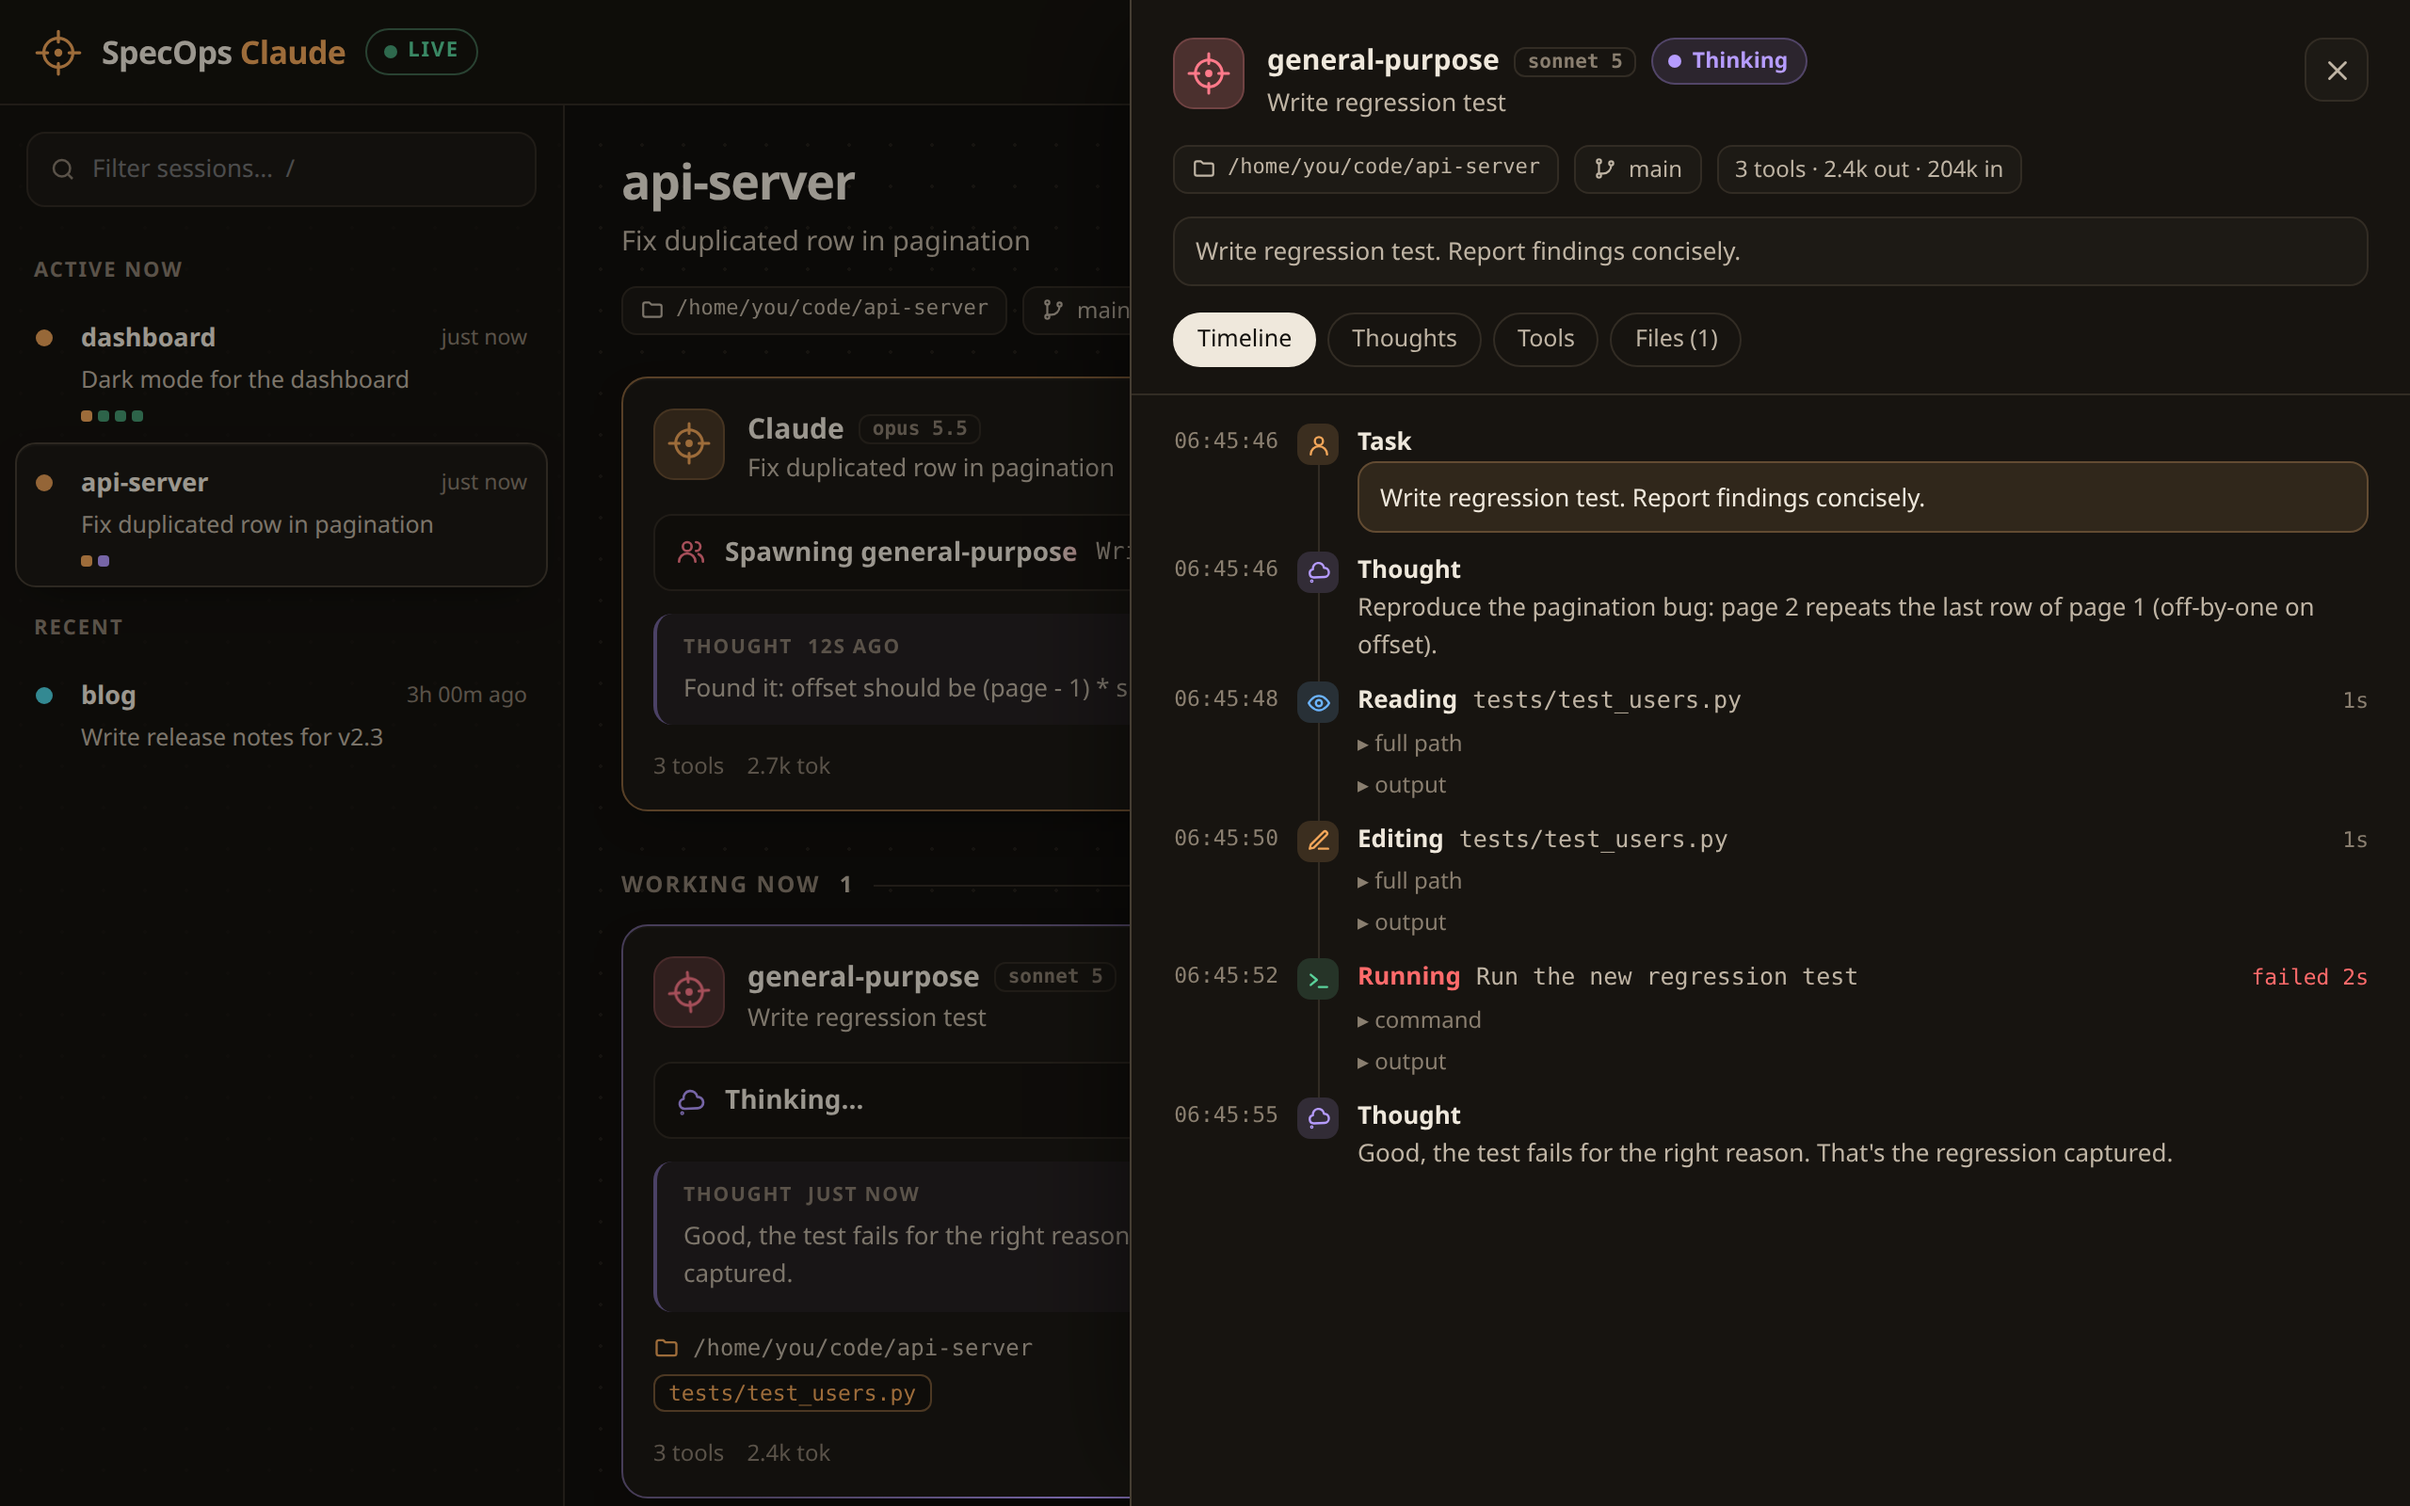
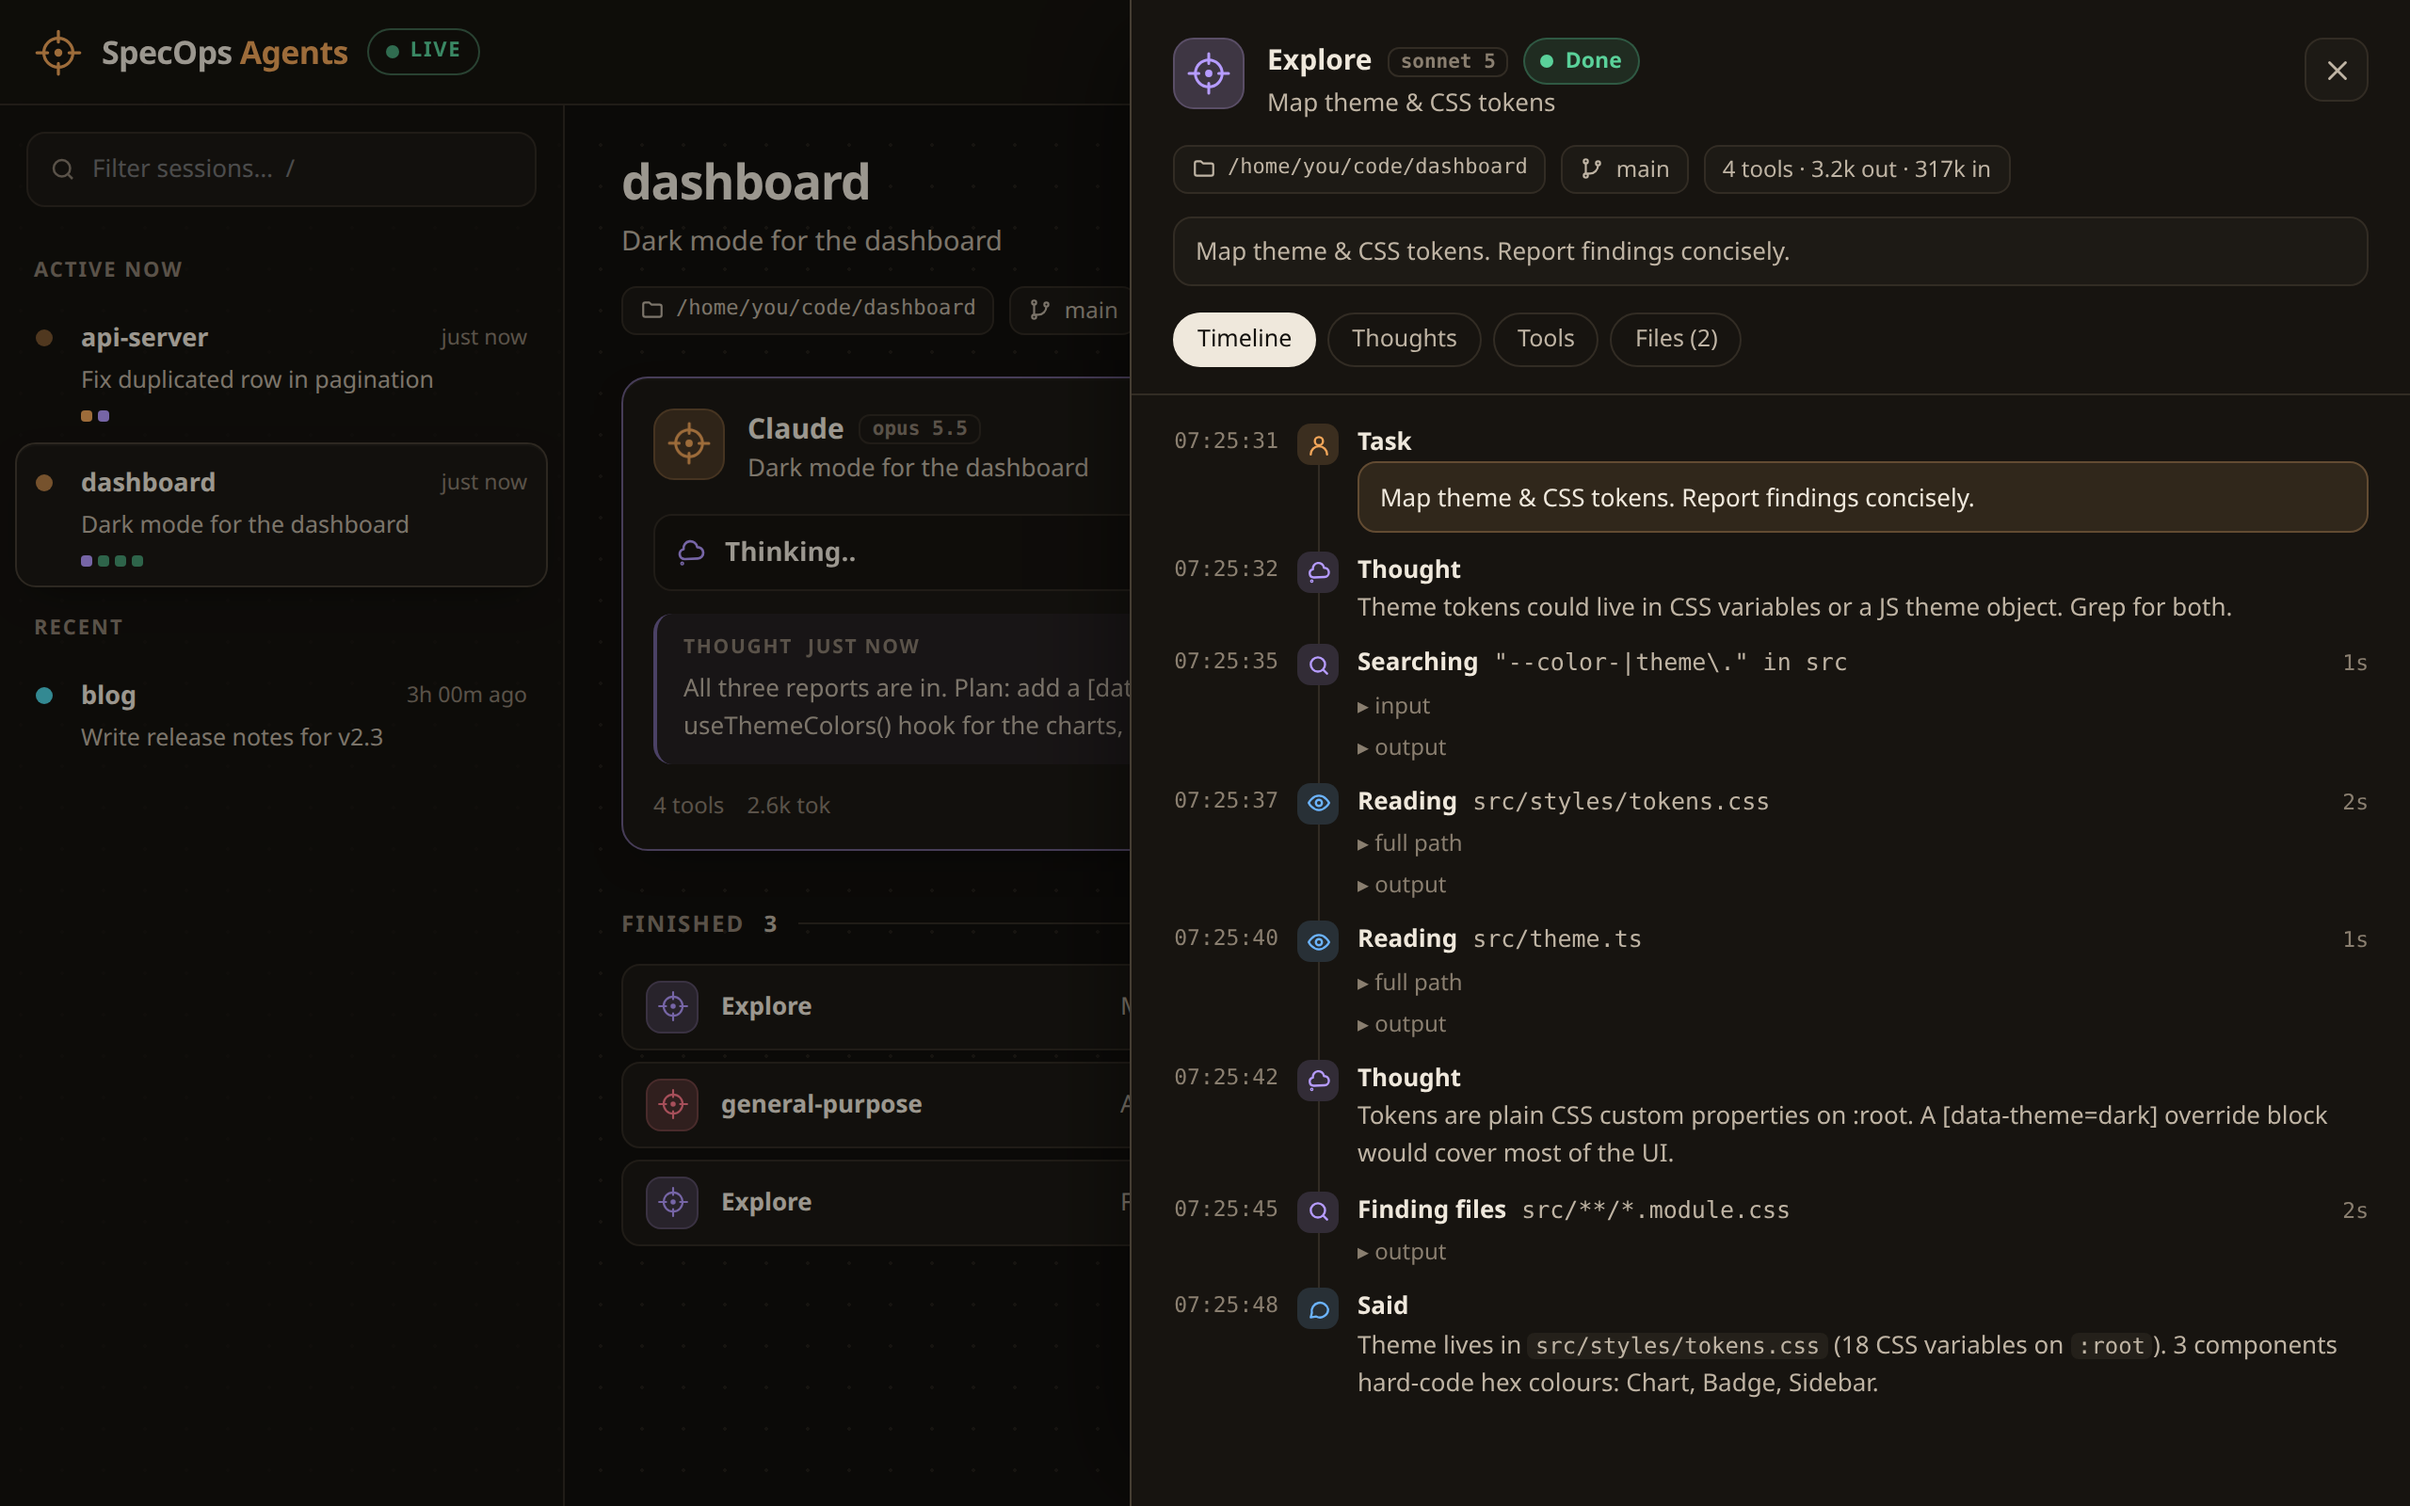
Rename to SpecOps Agents

diff --git a/src/specops/web/static/index.html b/src/specops/web/static/index.html
@@ -3,7 +3,7 @@
 <head>
   <meta charset="utf-8">
   <meta name="viewport" content="width=device-width, initial-scale=1">
-  <title>SpecOps Claude</title>
+  <title>SpecOps Agents</title>
   <link rel="icon" href="/static/favicon.svg" type="image/svg+xml">
   <link rel="stylesheet" href="/static/style.css">
   <script>
@@ -14,7 +14,7 @@
   <header class="topbar">
     <div class="brand">
       <svg class="logo" viewBox="0 0 32 32" aria-hidden="true"><use href="#mark"/></svg>
-      <span class="wordmark">SpecOps <b>Claude</b></span>
+      <span class="wordmark">SpecOps <b>Agents</b></span>
       <span class="live" id="live" title="Connection"><i></i><span>connecting</span></span>
     </div>
     <div class="stats" id="stats"></div>

diff --git a/src/specops/web/static/app.js b/src/specops/web/static/app.js
@@ -204,7 +204,7 @@ function renderStats() {
       `<span><b>${active}</b> active session${active === 1 ? "" : "s"}</span>` +
       `<span><b>${ss.length}</b> total</span>`
   );
-  document.title = working ? `(${working}) SpecOps Claude` : "SpecOps Claude";
+  document.title = working ? `(${working}) SpecOps Agents` : "SpecOps Agents";
 }
 
 function renderSessions() {

diff --git a/src/specops/tui/app.py b/src/specops/tui/app.py
@@ -152,7 +152,7 @@ class AgentScreen(ModalScreen[None]):
 
 class SpecOpsApp(App[None]):
     CSS_PATH = "app.tcss"
-    TITLE = "SpecOps Claude"
+    TITLE = "SpecOps Agents"
     BINDINGS: ClassVar[list[BindingType]] = [
         Binding("q", "quit", "Quit"),
         Binding("f", "toggle_follow", "Follow"),
@@ -290,7 +290,7 @@ class SpecOpsApp(App[None]):
         active = sum(1 for s in sessions if s["status"] == "working")
         t = Text()
         t.append(" ▲▼ ", style=f"bold {r.ACCENT}")
-        t.append("SpecOps Claude", style="bold")
+        t.append("SpecOps Agents", style="bold")
         t.append(f" {__version__}", style=r.DIM)
         t.append("   ")
         t.append(f"{working}", style=f"bold {r.STATUS_COLOR['tool'] if working else r.TEXT_2}")

diff --git a/src/specops/cli.py b/src/specops/cli.py
@@ -135,7 +135,7 @@ def run_web(args: argparse.Namespace) -> int:
     host, port = server.server_address[:2]
     shown = "localhost" if host in ("127.0.0.1", "::1") else host
     url = f"http://{shown}:{port}/"
-    print(f"\n  \033[38;5;215m◎ SpecOps Claude\033[0m is watching \033[2m{hive.root}\033[0m")
+    print(f"\n  \033[38;5;215m◎ SpecOps Agents\033[0m is watching \033[2m{hive.root}\033[0m")
     print(f"     open \033[1m{url}\033[0m  ·  Ctrl+C to stop\n")
     if host not in ("127.0.0.1", "localhost", "::1"):
         print(

diff --git a/src/specops/demo.py b/src/specops/demo.py
@@ -1,4 +1,4 @@
-"""A fake colony: writes realistic Claude Code transcripts so SpecOps Claude can be tried without Claude.
+"""A fake colony: writes realistic Claude Code transcripts so SpecOps Agents can be tried without Claude.
 
 The demo exercises the real pipeline end to end: it appends JSONL events to files in a temporary
 ``projects`` directory and the normal :class:`~specops.hive.Hive` follows them.

diff --git a/README.md b/README.md
@@ -1,8 +1,8 @@
 <div align="center">
 
-<img src="docs/logo.svg" width="96" height="96" alt="SpecOps Claude logo">
+<img src="docs/logo.svg" width="96" height="96" alt="SpecOps Agents logo">
 
-# SpecOps Claude
+# SpecOps Agents
 
 **Mission control for your Claude Code and Antigravity agents.**
 Watch every agent and subagent work in real time, in the terminal or in the browser.
@@ -17,14 +17,14 @@ Watch every agent and subagent work in real time, in the terminal or in the brow
 
 <br>
 
-<img src="docs/web.png" alt="SpecOps Claude web dashboard" width="100%">
+<img src="docs/web.png" alt="SpecOps Agents web dashboard" width="100%">
 
 </div>
 
 ---
 
 When Claude fans out to three `Explore` agents and a `general-purpose` one, your terminal shows you
-a spinner. **SpecOps Claude shows you the whole squad:** who is working, what each agent is doing
+a spinner. **SpecOps Agents shows you the whole squad:** who is working, what each agent is doing
 right now (reading which file, running which command), what it last thought, its todo list, and a
 full timeline you can open for any agent.
 
@@ -139,7 +139,7 @@ Requires Python 3.10+.
 
 ### In the terminal
 
-<img src="docs/tui.png" alt="SpecOps Claude terminal dashboard" width="100%">
+<img src="docs/tui.png" alt="SpecOps Agents terminal dashboard" width="100%">
 
 | Key | |
 | --- | --- |
@@ -169,7 +169,7 @@ Click any agent card (or a finished agent) for its full timeline, with tool inpu
 <details>
 <summary><b>Light theme</b></summary>
 <br>
-<img src="docs/web-light.png" alt="SpecOps Claude in light theme" width="100%">
+<img src="docs/web-light.png" alt="SpecOps Agents in light theme" width="100%">
 </details>
 
 ## Antigravity
@@ -193,7 +193,7 @@ What to expect:
   itself updates as the agent works.
 - Token usage isn't recorded, so Antigravity cards show tool counts only.
 - The full IDE conversations (`conversations/*.pb`) are encrypted and not read.
-- None of this is a documented format. SpecOps Claude decodes it defensively and skips anything
+- None of this is a documented format. SpecOps Agents decodes it defensively and skips anything
   it doesn't recognise, but an Antigravity update can change it.
 
 ## How it works
@@ -212,7 +212,7 @@ flowchart LR
     H -- "Server-Sent Events" --> WEB["Web UI<br/>(vanilla JS)"]
 ```
 
-SpecOps Claude:
+SpecOps Agents:
 
 1. scans for recently modified transcripts every couple of seconds,
 2. tails each one (big transcripts are read from the last 4 MB, so they open instantly),
@@ -227,14 +227,14 @@ An agent that stops producing events is shown as idle after 3 minutes (30 minute
 running, since builds and test suites can be slow).
 
 > [!NOTE]
-> The transcript format is internal to Claude Code and undocumented. SpecOps Claude reads it
+> The transcript format is internal to Claude Code and undocumented. SpecOps Agents reads it
 > defensively: unknown events are skipped rather than crashing the viewer, but a Claude Code update
 > can still make something display oddly. Please
 > [open an issue](https://github.com/medeirosdev/SpecOps-Claude/issues) if it does.
 
 ## Privacy
 
-Transcripts and Antigravity logs hold your prompts, code, and command output. SpecOps Claude only
+Transcripts and Antigravity logs hold your prompts, code, and command output. SpecOps Agents only
 reads them locally, and the web UI binds to `127.0.0.1` by default.
 
 > [!WARNING]
